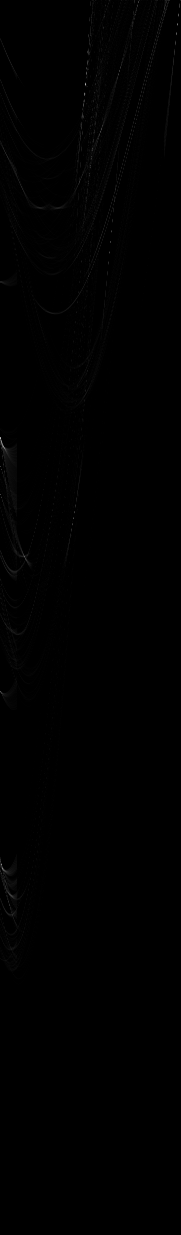
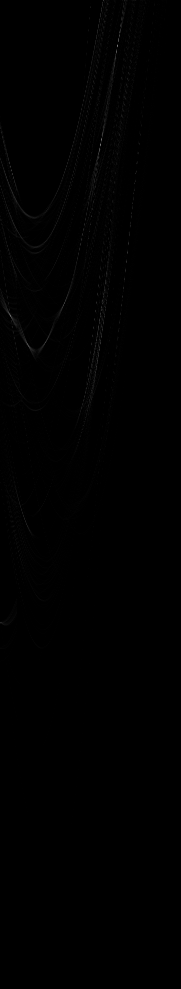
new Hough Line transform added

diff --git a/code/dart.cpp b/code/dart.cpp
@@ -36,7 +36,9 @@ void gradDir (Mat &inDx, Mat &inDy, Mat &outDir, double *min, double *max);
 
 void houghCircle (Mat &outDyDx_uchar, Mat &outgradDir, Mat &houghVis, int minRad, int maxRad);
 
-void houghLines (Mat &outGradMag_uchar, Mat &outGradDir);
+void houghLineXY (Mat &gradMag, Mat &gradDir, Mat &hLines);
+
+void houghLineDA (Mat &outGradMag_uchar, Mat &outGradDir);
 
 int filterBoxes (vector<Rect> &dartboards, Mat &frame, Mat &hough_uc, int Ts, string filename);
 
@@ -71,14 +73,15 @@ int main( int argc, const char** argv )
 
   int minRad = 3;
   int maxRad = (min(frame.cols, frame.rows))/2;  
-  Mat hough_uc;
+  Mat h_circ_uc;
   cout<<"Generating Hough Circle Transform"<<endl;
-  houghCircle(grad_mag_uc, grad_dir, hough_uc, minRad, maxRad);
+  houghCircle(grad_mag_uc, grad_dir, h_circ_uc, minRad, maxRad);
   cout<<"Generating Hough Line Transform"<<endl;
-  houghLines(grad_mag_uc, grad_dir);
-  
-  int Ts = 150;
-  filterBoxes (dartboards, frame, hough_uc, Ts, filename);
+  //houghLineDA(grad_mag_uc, grad_dir);
+  Mat h_line_uc;
+  houghLineXY( grad_mag_uc, grad_dir, h_line_uc );
+  int Ts = 250;
+  filterBoxes (dartboards, frame, h_circ_uc, Ts, filename);
 	return 0;
 }
 
@@ -91,7 +94,7 @@ int filterBoxes (vector<Rect> &dartboards, Mat &frame, Mat &hough_uc, int Ts, st
 	{
     for ( int y = dartboards[i].y; y < dartboards[i].y + dartboards[i].height; y++)
     {
-      for ( int x = dartboards[i].x; x < dartboards[i].x + dartboards[i].width ; y++)
+      for ( int x = dartboards[i].x; x < dartboards[i].x + dartboards[i].width ; x++)
       {
         if (hough_uc.at<uchar>(y,x) > Ts)
         {
@@ -112,6 +115,7 @@ int filterBoxes (vector<Rect> &dartboards, Mat &frame, Mat &hough_uc, int Ts, st
   }
 
   imwrite( "out/" + filename + "_detected.jpg", frame );
+  cout<<"filtered count: "<<count<<endl;
   return count;
 }
 
@@ -275,8 +279,55 @@ void houghCircle (Mat &outDyDx_uchar, Mat &outGradDir, Mat &houghVis, int minRad
   
 }
 
-//Applies and visualises a 2D line-intersection Hough Transform
-void houghLines (Mat &gradMag, Mat &gradDir)
+//Applies and visualises a custom 2D Line Hough Space mapped to the image plane
+void houghLineXY (Mat &gradMag, Mat &gradDir, Mat &hLines)
+{
+  // Initialize parameter space
+  hLines = Mat::zeros( gradMag.size(), CV_8U);
+
+  cout<<"hough Circle array initialized"<<endl;
+
+  int yD = hLines.rows;
+  int xD = hLines.cols;
+  for ( int y = 0; y < yD; y++ )
+  {	
+	  for( int x = 0; x < xD; x++ )
+	  {
+      if (gradMag.at<uchar>(y,x) == 255)
+      {
+        for( int x0 = 0; x0 < xD; x0++ )
+        {      
+          double tanGrad = tan(gradDir.at<double>(y,x) - M_PI/2);
+          int y0 = (int)(tanGrad*(x0-x) + y); //make some magic
+          
+          if( y0 > 0 && y0 < yD)
+          {
+            hLines.at<uchar>(y0,x0)++;
+          }
+        }
+      }
+    }
+  }
+  cout<<"hough Line array populated"<<endl;
+  Mat houghVis(hLines.size(), CV_8U); 
+  for ( int y0 = 0; y0 < yD; y0++ )
+  {
+    for( int x0 = 0; x0 < xD; x0++ )
+    {
+      houghVis.at<uchar>(y0,x0) = hLines.at<ushort>(y0,x0);
+    }
+  }
+  imwrite("hLines.png", hLines);  
+}
+
+
+void houghCombine ( Mat &hCircle, Mat &houghLines, Mat hCombined)
+{
+
+}
+
+//Applies and visualises a 2D Distance-Angle Line Hough Transform
+void houghLineDA (Mat &gradMag, Mat &gradDir)
 {
   // Intialise parameter space dimensions
   int roD = (int)sqrt(gradDir.rows*gradDir.rows + gradDir.cols*gradDir.cols); 
@@ -340,6 +391,8 @@ void houghLines (Mat &gradMag, Mat &gradDir)
   }
   imwrite("houghLines.png", houghVis);
 }
+
+
 
 void convolve(Mat &input, Mat &kernel, Mat &output, double *minSum, double *maxSum)
 {
